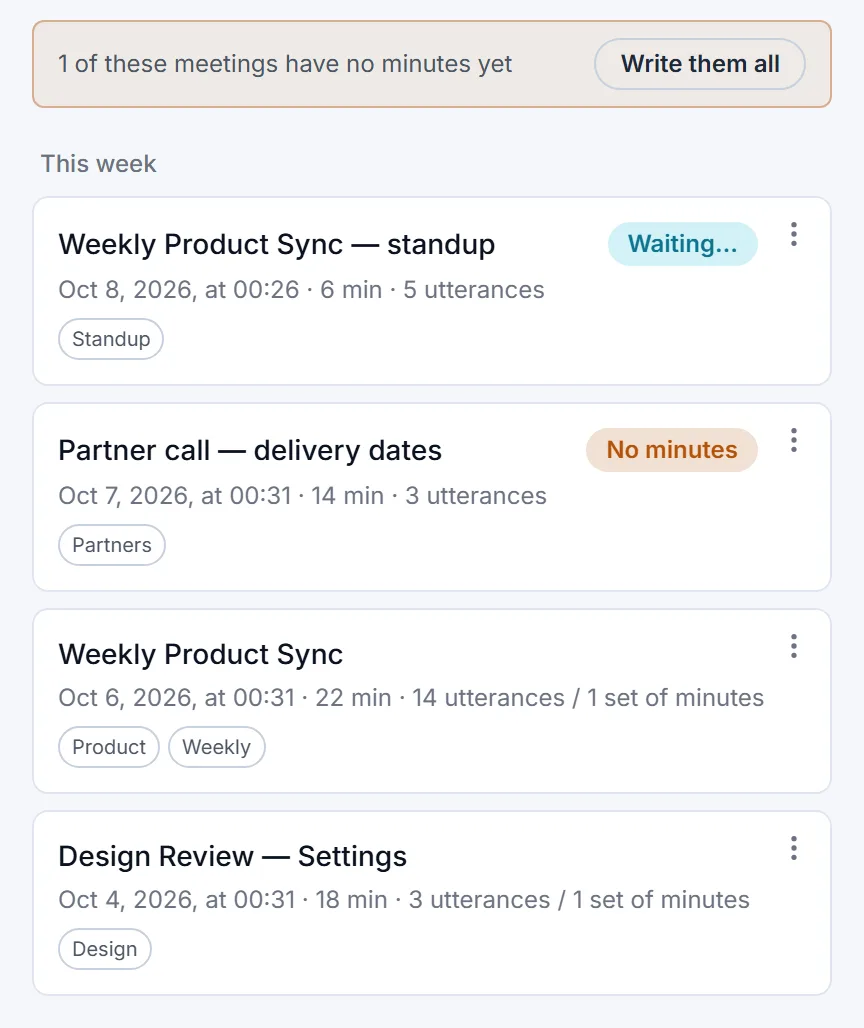
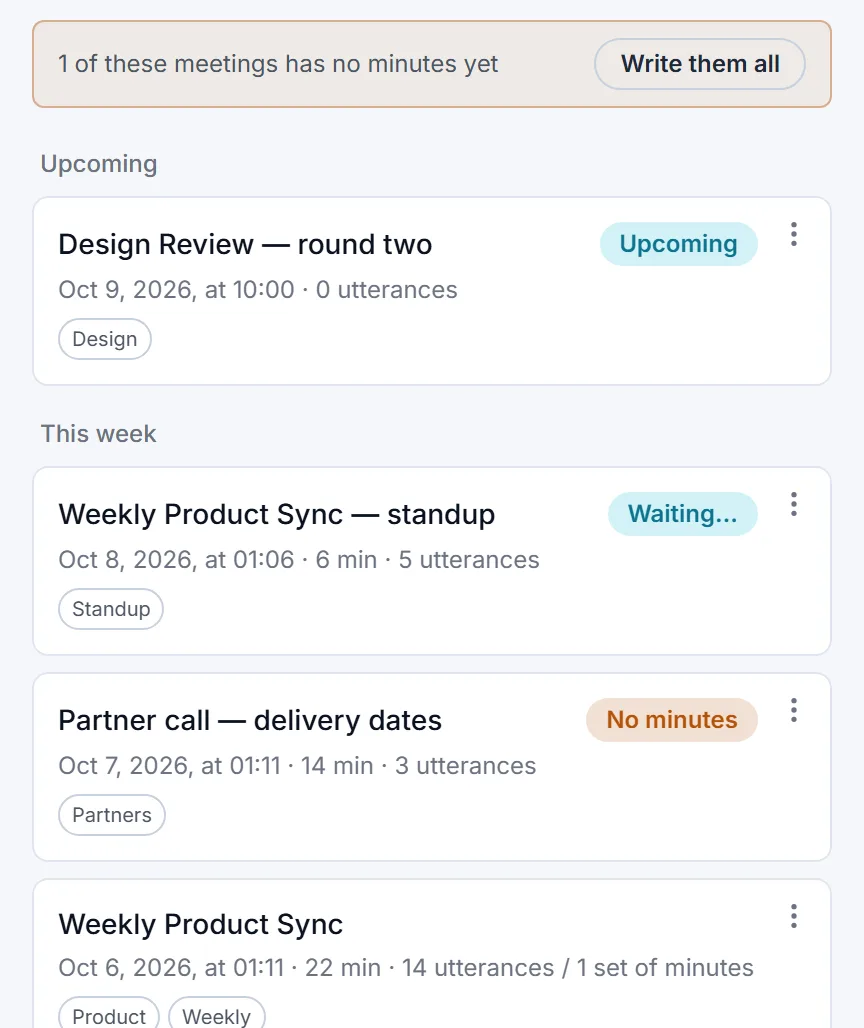
Make schedule and reminders an extension
Covers the calendar above the meeting list, booking a meeting for later
(When on New meeting, moving a booked time), and the start reminders in
the browser and the Android app.

Switched off, those disappear: no calendar, no When field, no booked
time editor, no reminder poller and no reminder setting. The due API
answers 404, which the Android app already reads as no reminders; a
booked time sent with a new meeting is ignored and moving one is
refused. Meetings already booked keep their time.

The demo seed gains a meeting booked for tomorrow, which Upcoming and
the calendar picture show. "1 of these meetings has no minutes yet"
now agrees in the singular.

diff --git a/lib/i18n/ja.ts b/lib/i18n/ja.ts
@@ -636,6 +636,16 @@ export const ja: Record<string, string> = {
   "Publish a password-protected, read-only link outside the tailnet.": "パスワード付きの読み取り専用リンクを、tailnet の外に公開します。",
   "Extensions": "拡張機能",
   "Recording, transcription and minutes are always there. These are added on top, for everybody on this machine. Switching one off hides it and keeps its data; switching it back on brings everything back.": "録音・文字起こし・議事録はいつでも使えます。ここで選ぶ機能は、その上に追加するもので、この機器を使う全員に効きます。無効にすると画面から消えますがデータは残り、有効に戻せば元どおりになります。",
+  "Schedule and reminders": "予定とリマインダー",
+  "Book meetings ahead on a calendar, and be told when one is due to start.":
+    "カレンダーから会議を予定に入れ、始まる時刻に知らせを受け取れます。",
+  "Next week's meetings set up ahead of time: the title, the agenda and who is coming.":
+    "来週の会議の名前・議題・参加者を、前もって用意しておく。",
+  "A notice on your phone or watch when a meeting is due, and recording started from it.":
+    "会議の時刻にスマホや腕時計に知らせが来て、そこから録音を始める。",
+  "A month of meetings looked back over on a calendar.": "1か月分の会議をカレンダーで見返す。",
+  "A calendar above the meeting list, a When field on New meeting, and Upcoming in the list. Reminders come to the browser (allowed under Settings, Appearance) and to the Android app.":
+    "会議一覧の上にカレンダー、「新しい会議」に日時の欄、一覧に「予定」が出ます。開始の知らせはブラウザ（設定の「表示」で許可）と Android アプリに届きます。",
   "Minutes formats": "議事録の書式",
   "Formats and writing instructions of your own, and choosing what the model is given.":
     "自分で作った書式と書き方の指示で議事録を書き、モデルに渡す情報も選べます。",
@@ -1359,6 +1369,7 @@ export const ja: Record<string, string> = {
   "Based on the whole of this meeting, read as notes taken from it (it was too long to read at once).":
     "長い会議のため、全体から抽出した要点メモに基づいています（会議全体をカバーしています）。",
   "Recorded, but no minutes yet": "録音はあり、議事録がまだ作られていません",
+  "1 of these meetings has no minutes yet": "この一覧のうち 1 件は議事録がまだです",
   "{n} of these meetings have no minutes yet": "この一覧のうち {n} 件は議事録がまだです",
   "Write them all": "まとめて作成",
   "Select all": "すべて選択",

diff --git a/app/meeting-list-pane.tsx b/app/meeting-list-pane.tsx
@@ -114,7 +114,9 @@ export async function MeetingListPane({
   // The calendar is about when things happened, which a text search and a series filter have
   // both already answered in their own terms — showing it beside them offers a third axis that
   // only ever narrows to nothing. A picked day keeps it, because that is what it is showing.
-  const showCalendar = !query && !activeSeries;
+  // The calendar is part of Schedule and reminders: off, the list is just the list.
+  const schedule = await extensionEnabled("schedule");
+  const showCalendar = !query && !activeSeries && schedule;
   const shownMonth = parseMonth(month ?? activeDate?.slice(0, 7), new Date(now));
   const { start: monthStart, end: monthEnd } = monthRange(shownMonth);
 
@@ -623,9 +625,11 @@ export async function MeetingListPane({
           </span>
           {/* Not behind `readOnly`: booking a meeting is allowed from outside, and a day on the
               calendar is the most natural place to book one from. */}
-          <Link href={`/new?date=${activeDate}`} className="text-[var(--accent-sub)] underline">
-            {t("+ Add a meeting on this day")}
-          </Link>
+          {schedule ? (
+            <Link href={`/new?date=${activeDate}`} className="text-[var(--accent-sub)] underline">
+              {t("+ Add a meeting on this day")}
+            </Link>
+          ) : null}
           <Link
             href={hrefWith({ date: null, month: monthKey(shownMonth) })}
             className="ml-auto text-[var(--text-muted)] underline"

diff --git a/app/layout.tsx b/app/layout.tsx
@@ -165,6 +165,7 @@ export default async function RootLayout({
   // Has a key, and it is shut. Both halves matter: an account with no key at all is not locked,
   // it is unencrypted, and telling that person to unlock something would be a sentence about a
   // thing they do not have.
+  const extensions = await readExtensions();
   const locked = me
     ? Boolean(
         (
@@ -210,7 +211,7 @@ export default async function RootLayout({
           }}
         />
         <LocaleProvider locale={locale}>
-          <ExtensionsProvider value={await readExtensions()}>
+          <ExtensionsProvider value={extensions}>
           {/* Which page was before this one, for "Back to list" (app/back-link.tsx). */}
           <Suspense fallback={null}>
             <NavTracker />
@@ -229,7 +230,7 @@ export default async function RootLayout({
                 {locked ? <LockedBanner /> : null}
                 {/* Below the lock and above the page: a meeting starting is worth interrupting
                     for, but not worth interrupting an account that cannot read anything yet. */}
-                {locked ? null : <DueMeetingAlert external={external} />}
+                {locked || !extensions.schedule ? null : <DueMeetingAlert external={external} />}
                 {/* The rail carries navigation on wide screens, but not the controls that only
                   make sense per-device or per-session — those keep a home along the top. */}
                 <div className="hidden justify-end gap-2 px-4 pt-3 lg:flex">

diff --git a/app/new/new-meeting-form.tsx b/app/new/new-meeting-form.tsx
@@ -6,6 +6,7 @@ import { useEffect, useRef, useState } from "react";
 import { defaultMeetingTitle } from "@/lib/meeting-title";
 import { dayFromKey } from "@/lib/utils";
 import { useT } from "@/app/locale-provider";
+import { useExtensions } from "@/app/extensions-provider";
 import {
   WHISPER_MODELS,
   effectiveSttLanguage,
@@ -73,6 +74,7 @@ export default function NewMeetingForm({
   // appearing to have been ignored — the whole point of that link was to say which day.
   const bookedDay = dayFromKey(date);
   const t = useT();
+  const { schedule } = useExtensions();
   const dayTitle = defaultMeetingTitle(bookedDay, titleFormat);
   const [title, setTitle] = useState(dayTitle);
   const [description, setDescription] = useState("");
@@ -444,6 +446,7 @@ export default function NewMeetingForm({
           </datalist>
         </div>
 
+        {schedule ? (
         <div>
           <label htmlFor="scheduled" className="label">
             {t("When (optional)")}
@@ -462,6 +465,7 @@ export default function NewMeetingForm({
             {t("Leave empty to record now. Filling it in puts the meeting under Upcoming so the title, agenda and settings can be sorted out ahead of time — then it is one tap to start when the meeting comes round.")}
           </p>
         </div>
+        ) : null}
 
         {/* Recording settings for this meeting only. Defaults come from settings; changes here are
             not saved. Always expanded: picking the wrong model here is silent and costly, so these

diff --git a/app/api/meetings/route.ts b/app/api/meetings/route.ts
@@ -1,4 +1,5 @@
 import { applySeriesMembers, seriesIdForName } from "@/lib/series";
+import { extensionEnabled } from "@/lib/extensions-store";
 import { NextRequest, NextResponse } from "next/server";
 import { apiError, readJson } from "@/lib/api";
 import { defaultMeetingTitle } from "@/lib/meeting-title";
@@ -70,7 +71,12 @@ export async function POST(req: NextRequest) {
   // date shown everywhere is the meeting's own; it is corrected to the real one when the
   // recording ends, which is when a true start time first exists.
   let scheduledAt: Date | undefined;
-  if (typeof body?.scheduledAt === "string" && body.scheduledAt.trim()) {
+  // Not while Schedule and reminders is switched off: the meeting is set up to be recorded now.
+  if (
+    typeof body?.scheduledAt === "string" &&
+    body.scheduledAt.trim() &&
+    (await extensionEnabled("schedule"))
+  ) {
     const d = new Date(body.scheduledAt);
     if (Number.isNaN(d.getTime())) return apiError("scheduledAt is not a date", 400);
     scheduledAt = d;

diff --git a/app/settings/extensions-settings.tsx b/app/settings/extensions-settings.tsx
@@ -52,6 +52,19 @@ function texts(t: (k: string) => string): Record<ExtensionId, Words> {
       ),
       needs: null,
     },
+    schedule: {
+      name: t("Schedule and reminders"),
+      summary: t("Book meetings ahead on a calendar, and be told when one is due to start."),
+      scenes: [
+        t("Next week's meetings set up ahead of time: the title, the agenda and who is coming."),
+        t("A notice on your phone or watch when a meeting is due, and recording started from it."),
+        t("A month of meetings looked back over on a calendar."),
+      ],
+      where: t(
+        "A calendar above the meeting list, a When field on New meeting, and Upcoming in the list. Reminders come to the browser (allowed under Settings, Appearance) and to the Android app.",
+      ),
+      needs: null,
+    },
     minutesFormats: {
       name: t("Minutes formats"),
       summary: t("Formats and writing instructions of your own, and choosing what the model is given."),

diff --git a/app/new/page.tsx b/app/new/page.tsx
@@ -1,4 +1,5 @@
 import { isExternalRequest } from "@/lib/is-tailnet";
+import { extensionEnabled } from "@/lib/extensions-store";
 import { readSettings } from "@/lib/settings";
 import NewMeetingForm from "./new-meeting-form";
 
@@ -18,5 +19,7 @@ export default async function NewMeetingPage({
   // the shape has to be right on the first paint. Fetching it in the browser would show the
   // compact default and then swap it under somebody already typing.
   const { meetingTitleFormat } = await readSettings();
-  return <NewMeetingForm external={external} date={date} titleFormat={meetingTitleFormat} />;
+  // A day to book on means nothing while Schedule and reminders is switched off.
+  const bookOn = (await extensionEnabled("schedule")) ? date : undefined;
+  return <NewMeetingForm external={external} date={bookOn} titleFormat={meetingTitleFormat} />;
 }

diff --git a/app/api/meetings/due/route.ts b/app/api/meetings/due/route.ts
@@ -1,4 +1,5 @@
 import { NextRequest, NextResponse } from "next/server";
+import { extensionOff } from "@/app/api/extension-off";
 import { prisma } from "@/lib/prisma";
 
 export const runtime = "nodejs";
@@ -27,6 +28,10 @@ const STALE_AFTER_MS = 2 * 60 * 60 * 1000;
  * thirty seconds — the Android app, which sets a notice for each booked meeting's own time.
  */
 export async function GET(req: NextRequest) {
+  // Off, nothing is due: the browsers' poller is not rendered, and the Android app reads the 404
+  // as no reminders.
+  const off = await extensionOff("schedule");
+  if (off) return off;
   const now = Date.now();
   // How far ahead to also report, in minutes. Absent — which is every browser — adds nothing.
   const soonMinutes = Number(req.nextUrl.searchParams.get("soon") ?? 0);

diff --git a/app/api/meetings/[id]/route.ts b/app/api/meetings/[id]/route.ts
@@ -1,4 +1,5 @@
 import { NextRequest, NextResponse } from "next/server";
+import { extensionOff } from "@/app/api/extension-off";
 import { apiError, readJson } from "@/lib/api";
 import { prisma } from "@/lib/prisma";
 import { isExternalRequest } from "@/lib/is-tailnet";
@@ -123,6 +124,8 @@ export async function PATCH(req: NextRequest, { params }: { params: Promise<{ id
   // `startedAt` moves too: a booked meeting carries its diary time there until it is recorded,
   // which is what the list and the page show (see POST /api/meetings).
   if (body?.scheduledAt !== undefined) {
+    const off = await extensionOff("schedule");
+    if (off) return off;
     if (typeof body.scheduledAt !== "string" || !body.scheduledAt.trim()) {
       return apiError("scheduledAt is not a date", 400);
     }

diff --git a/app/bulk-minutes.tsx b/app/bulk-minutes.tsx
@@ -87,7 +87,12 @@ export function BulkMinutes({ candidates }: { candidates: BulkCandidate[] }) {
     <div className="rounded-md border border-[color-mix(in_srgb,var(--warning)_40%,transparent)] bg-[color-mix(in_srgb,var(--warning)_8%,transparent)] px-3 py-2">
       <div className="flex flex-wrap items-center gap-2">
         <p className="flex-1 text-xs text-[var(--text-secondary)]">
-          {t("{n} of these meetings have no minutes yet", { n: candidates.length })}
+          {t(
+            candidates.length === 1
+              ? "1 of these meetings has no minutes yet"
+              : "{n} of these meetings have no minutes yet",
+            { n: candidates.length },
+          )}
         </p>
         <button
           type="button"

diff --git a/tests/meeting-list-structure.test.ts b/tests/meeting-list-structure.test.ts
@@ -71,7 +71,8 @@ describe("the calendar over the list", () => {
   it("is hidden beside a search or a series, and kept beside a picked day", () => {
     // Both already answer "when" in their own terms; a third axis beside them only narrows to
     // nothing. A picked day is what the calendar is showing, so it stays.
-    expect(src).toContain("const showCalendar = !query && !activeSeries;");
+    // And not at all while Schedule and reminders is switched off.
+    expect(src).toContain("const showCalendar = !query && !activeSeries && schedule;");
   });
 
   it("offers to add a meeting whether or not the day is empty", () => {

diff --git a/tests/booked-time.test.ts b/tests/booked-time.test.ts
@@ -25,7 +25,8 @@ describe("moving a booked meeting", () => {
 
   it("is offered on the page only for a meeting that is still a booking", () => {
     const page = read("app/[id]/page.tsx");
-    expect(page).toContain("{upcoming && meeting.scheduledAt ? (");
+    // …and only while Schedule and reminders is on; off, the time shows without the editor.
+    expect(page).toContain("{upcoming && meeting.scheduledAt && extensions.schedule ? (");
     expect(page).toContain("<BookedTime");
   });
 
